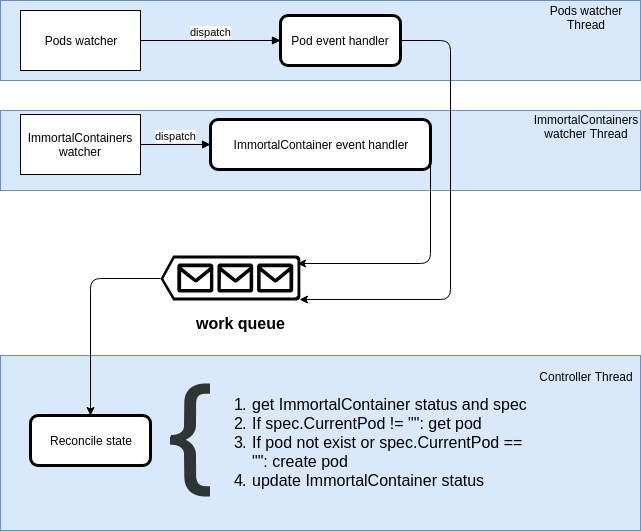
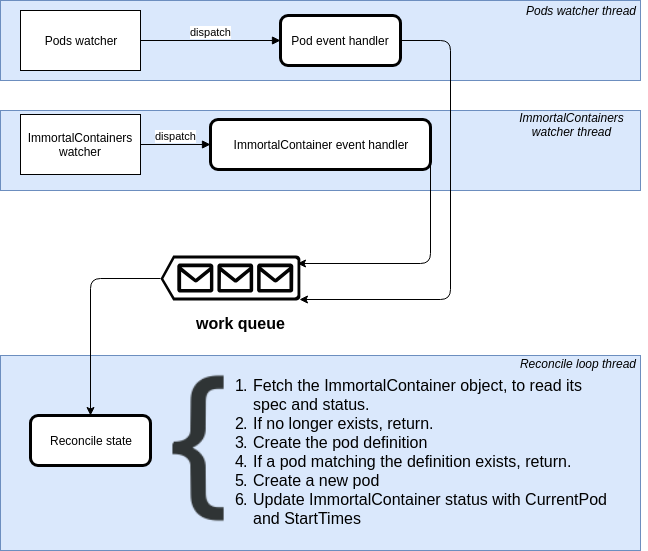
code refactoring and implementation of startTimes status field

diff --git a/src/controller.py b/src/controller.py
@@ -1,7 +1,6 @@
 import logging
 import queue
 import threading
-from pprint import pprint
 
 from kubernetes.client.rest import ApiException
 from kubernetes.client import models
@@ -62,19 +61,19 @@ class Controller(threading.Thread):
 
     def _handle_immortalcontainer_event(self, event):
         """Handle an event from the immortalcontainers watcher putting the
-           resource name in the `workqueue`."""
+           object name in the `workqueue`."""
         self._queue_work(event['object']['metadata']['namespace'] +
                          "/"+event['object']['metadata']['name'])
 
-    def _queue_work(self, resource_key):
-        """Add a resource name to the work queue."""
-        if len(resource_key.split("/")) != 2:
-            logger.error("Invalid resource key: {:s}".format(resource_key))
+    def _queue_work(self, object_key):
+        """Add a object name to the work queue."""
+        if len(object_key.split("/")) != 2:
+            logger.error("Invalid object key: {:s}".format(object_key))
             return
-        self.workqueue.put(resource_key)
+        self.workqueue.put(object_key)
 
     def run(self):
-        """Dequeue and process resources from the `workqueue`. This method
+        """Dequeue and process objects from the `workqueue`. This method
            should not be called directly, but using `start()"""
         self.running = True
         logger.info('Controller starting')
@@ -88,76 +87,75 @@ class Controller(threading.Thread):
                 self.workqueue.task_done()
             except Exception as ex:
                 logger.error(
-                    "Error _reconcile state {:s} {:s}".format(e, str(ex)))
+                    "Error _reconcile state {:s}".format(e),
+                    exc_info=True)
 
     def stop(self):
         """Stops this controller thread"""
         self.running = False
         self.workqueue.put(None)
 
-    def _reconcile_state(self, resource_key):
-        """Make changes to go from current state to desired state and update 
-           resource status."""
-        logger.info("Reconcile state: {:s}".format(resource_key))
-        ns, name = resource_key.split("/")
+    def _reconcile_state(self, object_key):
+        """Make changes to go from current state to desired state and updates
+           object status."""
+        logger.info("Reconcile state: {:s}".format(object_key))
+        ns, name = object_key.split("/")
 
-        # Get resource if it exists
+        # Get object if it exists
         try:
             immortalcontainer = self.customsapi.get_namespaced_custom_object(
                 self.custom_group, self.custom_version, ns, self.custom_plural, name)
         except ApiException as e:
             if e.status == 404:
                 logger.info(
-                    "Element {:s} in workqueue no longel exist".format(resource_key))
+                    "Element {:s} in workqueue no longer exist".format(object_key))
                 return
             raise e
 
-        # Get resource status
-        status = self._get_status(immortalcontainer)
-
-        # Get associated pod
+        # Create pod definition
+        pod_definition = self._new_pod(immortalcontainer)
         pod = None
-        if status['currentPod'] != "":
-            try:
-                pod = self.corev1api.read_namespaced_pod(
-                    status['currentPod'], ns)
-            except ApiException as e:
-                if e.status != 404:
-                    logger.info("Error retrieving pod {:s} for immortalcontainer {:s}".format(
-                        status['currentPod'], resource_key))
-                    raise e
+        try:
+            pod = self.corev1api.read_namespaced_pod(
+                pod_definition.metadata.name, ns)
+        except ApiException as e:
+            if e.status != 404:
+                logger.info("Error retrieving pod {:s} for immortalcontainer {:s}".format(
+                    pod_definition.metadata.name, object_key))
+                raise e
 
         if pod is None:
             # If no pod exists create one
-            pod_request = self._new_pod(immortalcontainer)
-            pod = self.corev1api.create_namespaced_pod(ns, pod_request)
-
-        # update status
-        self._update_status(immortalcontainer, pod)
+            pod = self.corev1api.create_namespaced_pod(ns, pod_definition)
+            # update status
+            self._update_status(immortalcontainer, pod)
 
     def _update_status(self, immortalcontainer, pod):
         """Updates an ImmortalContainer status"""
         new_status = self._calculate_status(immortalcontainer, pod)
-        self.customsapi.patch_namespaced_custom_object(
-            self.custom_group, self.custom_version,
-            immortalcontainer['metadata']['namespace'],
-            self.custom_plural, immortalcontainer['metadata']['name'],
-            new_status
-        )
+        try:
+            self.customsapi.patch_namespaced_custom_object_status(
+                self.custom_group, self.custom_version,
+                immortalcontainer['metadata']['namespace'],
+                self.custom_plural, immortalcontainer['metadata']['name'],
+                new_status
+            )
+        except Exception as e:
+            logger.error("Error updating status for ImmortalContainer {:s}/{:s}".format(
+                immortalcontainer['metadata']['namespace'], immortalcontainer['metadata']['name']))
 
     def _calculate_status(self, immortalcontainer, pod):
         """Calculates what the status of an ImmortalContainer should be """
         new_status = copy.deepcopy(immortalcontainer)
-        new_status['status'] = dict(currentPod=pod.metadata.name)
-        return new_status
-
-    def _get_status(self, immortalcontainer):
-        """Get the status from an ImmortalContainer. If `immortalcontainer`
-           has no status, returns a default status."""
-        if 'status' in immortalcontainer:
-            return immortalcontainer['status']
+        if 'status' in immortalcontainer and 'startTimes' in immortalcontainer['status']:
+            startTimes = immortalcontainer['status']['startTimes']+1
         else:
-            return dict(currentPod='')
+            startTimes = 1
+        new_status['status'] = dict(
+            currentPod=pod.metadata.name,
+            startTimes=startTimes
+        )
+        return new_status
 
     def _new_pod(self, immortalcontainer):
         """Returns the pod definition to create the pod for an ImmortalContainer"""

diff --git a/src/main.py b/src/main.py
@@ -6,7 +6,7 @@ from kubernetes import client, config
 
 import defs
 from controller import Controller
-from threadedwatch import ThreadedWatchStream
+from threadedwatch import ThreadedWatcher
 
 logging.basicConfig(level=logging.INFO)
 logger = logging.getLogger()
@@ -15,7 +15,7 @@ logger = logging.getLogger()
 def main():
     parser = argparse.ArgumentParser()
     parser.add_argument(
-        '--kubeconfig', help='path tu kubeconfig file, only required if running outside of a cluster')
+        '--kubeconfig', help='path to kubeconfig file, only required if running outside of a cluster')
     args = parser.parse_args()
     if args.kubeconfig is not None:
         config.load_kube_config()
@@ -26,8 +26,8 @@ def main():
     customsapi = client.CustomObjectsApi()
 
     # Changing this it's possible to work on all the namespaces or choose only one
-    pods_watcher = ThreadedWatchStream(corev1api.list_pod_for_all_namespaces)
-    immortalcontainers_watcher = ThreadedWatchStream(
+    pods_watcher = ThreadedWatcher(corev1api.list_pod_for_all_namespaces)
+    immortalcontainers_watcher = ThreadedWatcher(
         customsapi.list_cluster_custom_object, defs.CUSTOM_GROUP,
         defs.CUSTOM_VERSION, defs.CUSTOM_PLURAL
     )

diff --git a/src/threadedwatch.py b/src/threadedwatch.py
@@ -6,13 +6,13 @@ from kubernetes import watch
 logger = logging.getLogger('threadedwatch')
 
 
-class ThreadedWatchStream(threading.Thread):
+class ThreadedWatcher(threading.Thread):
     """Watches Kubernetes resources event in a separate thread. Handlers for
     events can be registered using `add_handler`.
 
     Example:
         v1 = kubernetes.client.CoreV1Api()
-        watcher = ThreadedWatchStream(v1.list_pod_for_all_namespaces)
+        watcher = ThreadedWatcher(v1.list_pod_for_all_namespaces)
         def on_event(event):
             print(event)
         watcher.add_handler(on_event)
@@ -46,7 +46,10 @@ class ThreadedWatchStream(threading.Thread):
             self.func, *self.func_args, **self.func_kwargs)
         for event in stream:
             for handler in self.handlers:
-                handler(event)
+                try:
+                    handler(event)
+                except:
+                    logger.error("Error in event handler", exc_info=True)
 
     def stop(self):
         """Stops listening and dispatching events."""

diff --git a/src/defs.py b/src/defs.py
@@ -1,5 +1,4 @@
-CUSTOM_GROUP = 'exampleoperator.flugel.it'
+CUSTOM_GROUP = 'immortalcontainer.flugel.it'
 CUSTOM_VERSION = 'v1alpha1'
 CUSTOM_PLURAL = 'immortalcontainers'
 CUSTOM_KIND = 'ImmortalContainer'
-

diff --git a/README.md b/README.md
@@ -67,7 +67,7 @@ INFO:controller:Controller starting
 Once the operator is running you can create immortal containers using a custom resource like this one:
 
 ```yaml
-apiVersion: exampleoperator.flugel.it/v1alpha1
+apiVersion: immortalcontainer.flugel.it/v1alpha1
 kind: ImmortalContainer
 metadata:
   name: example-immortal-container
